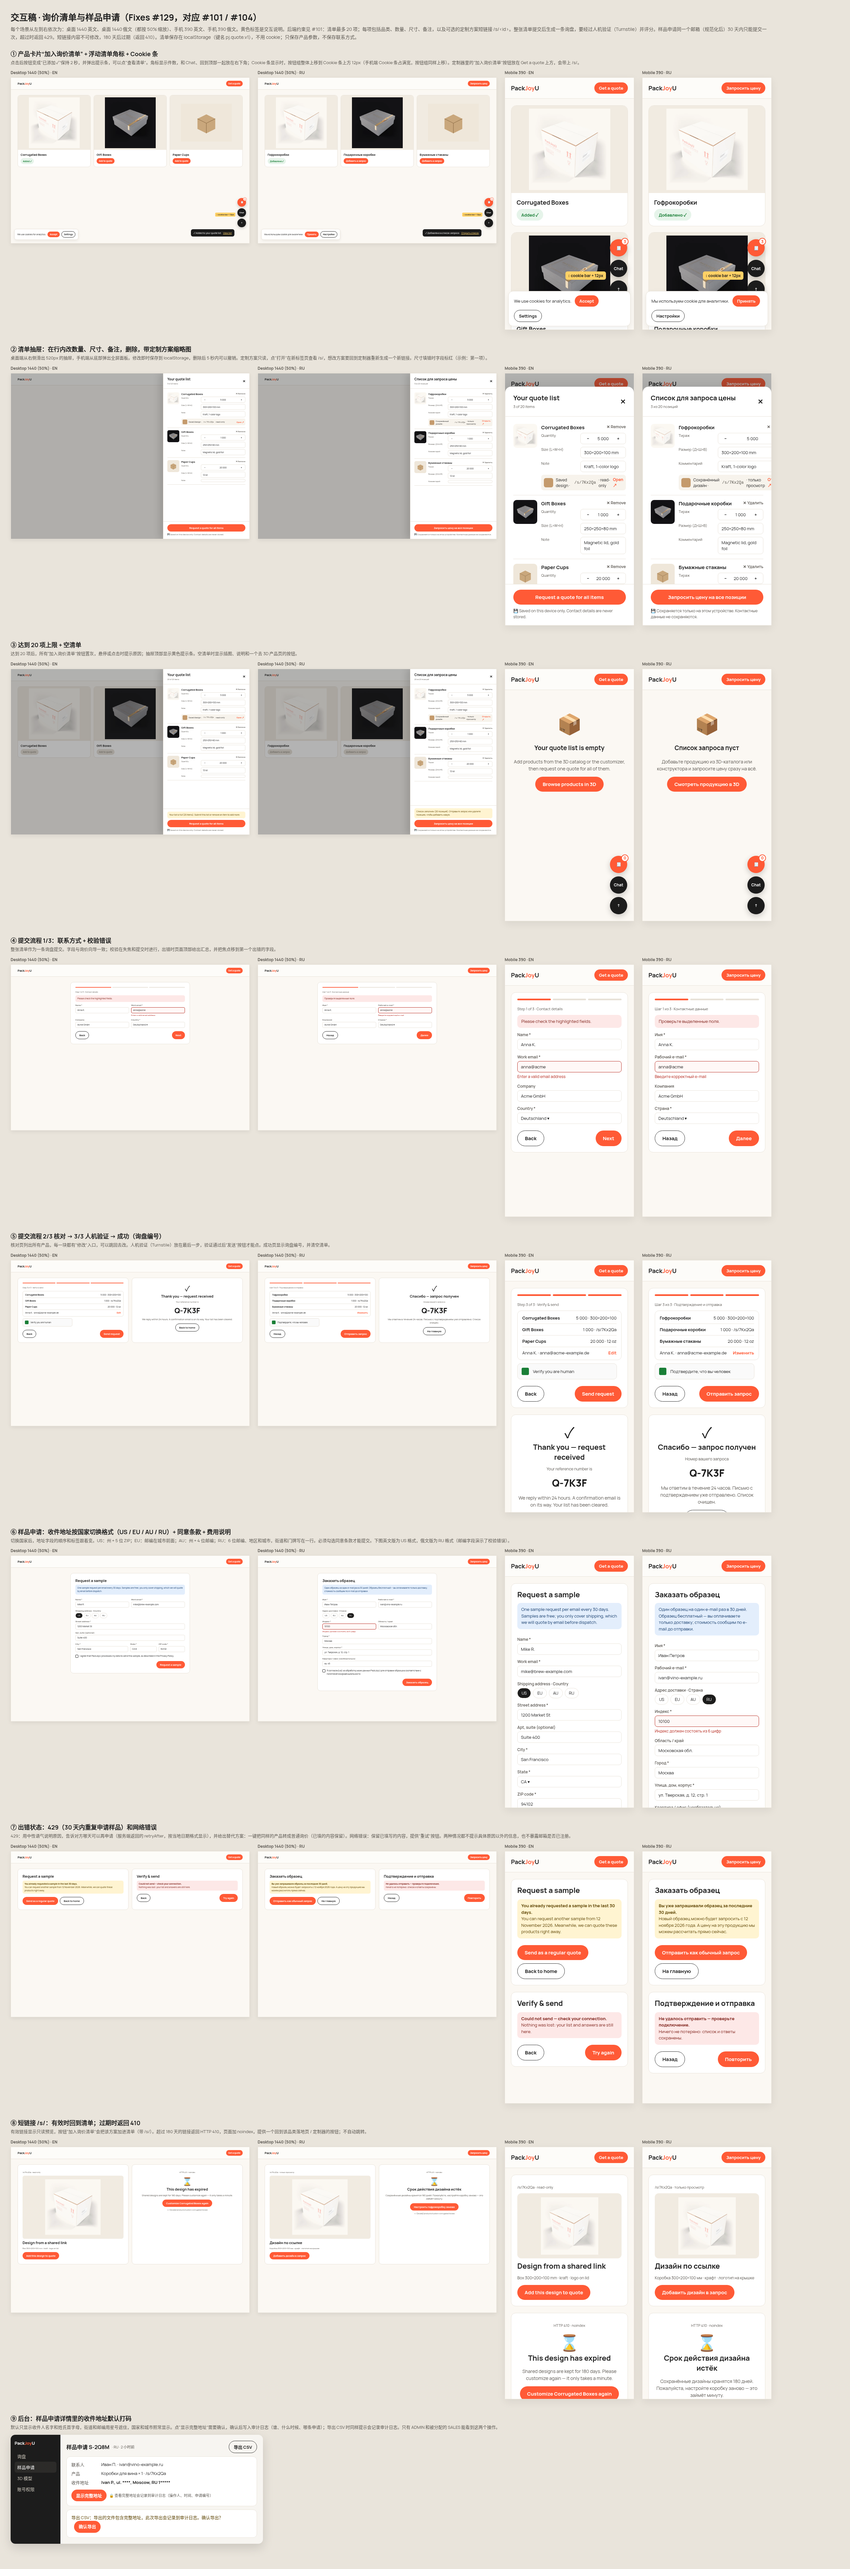
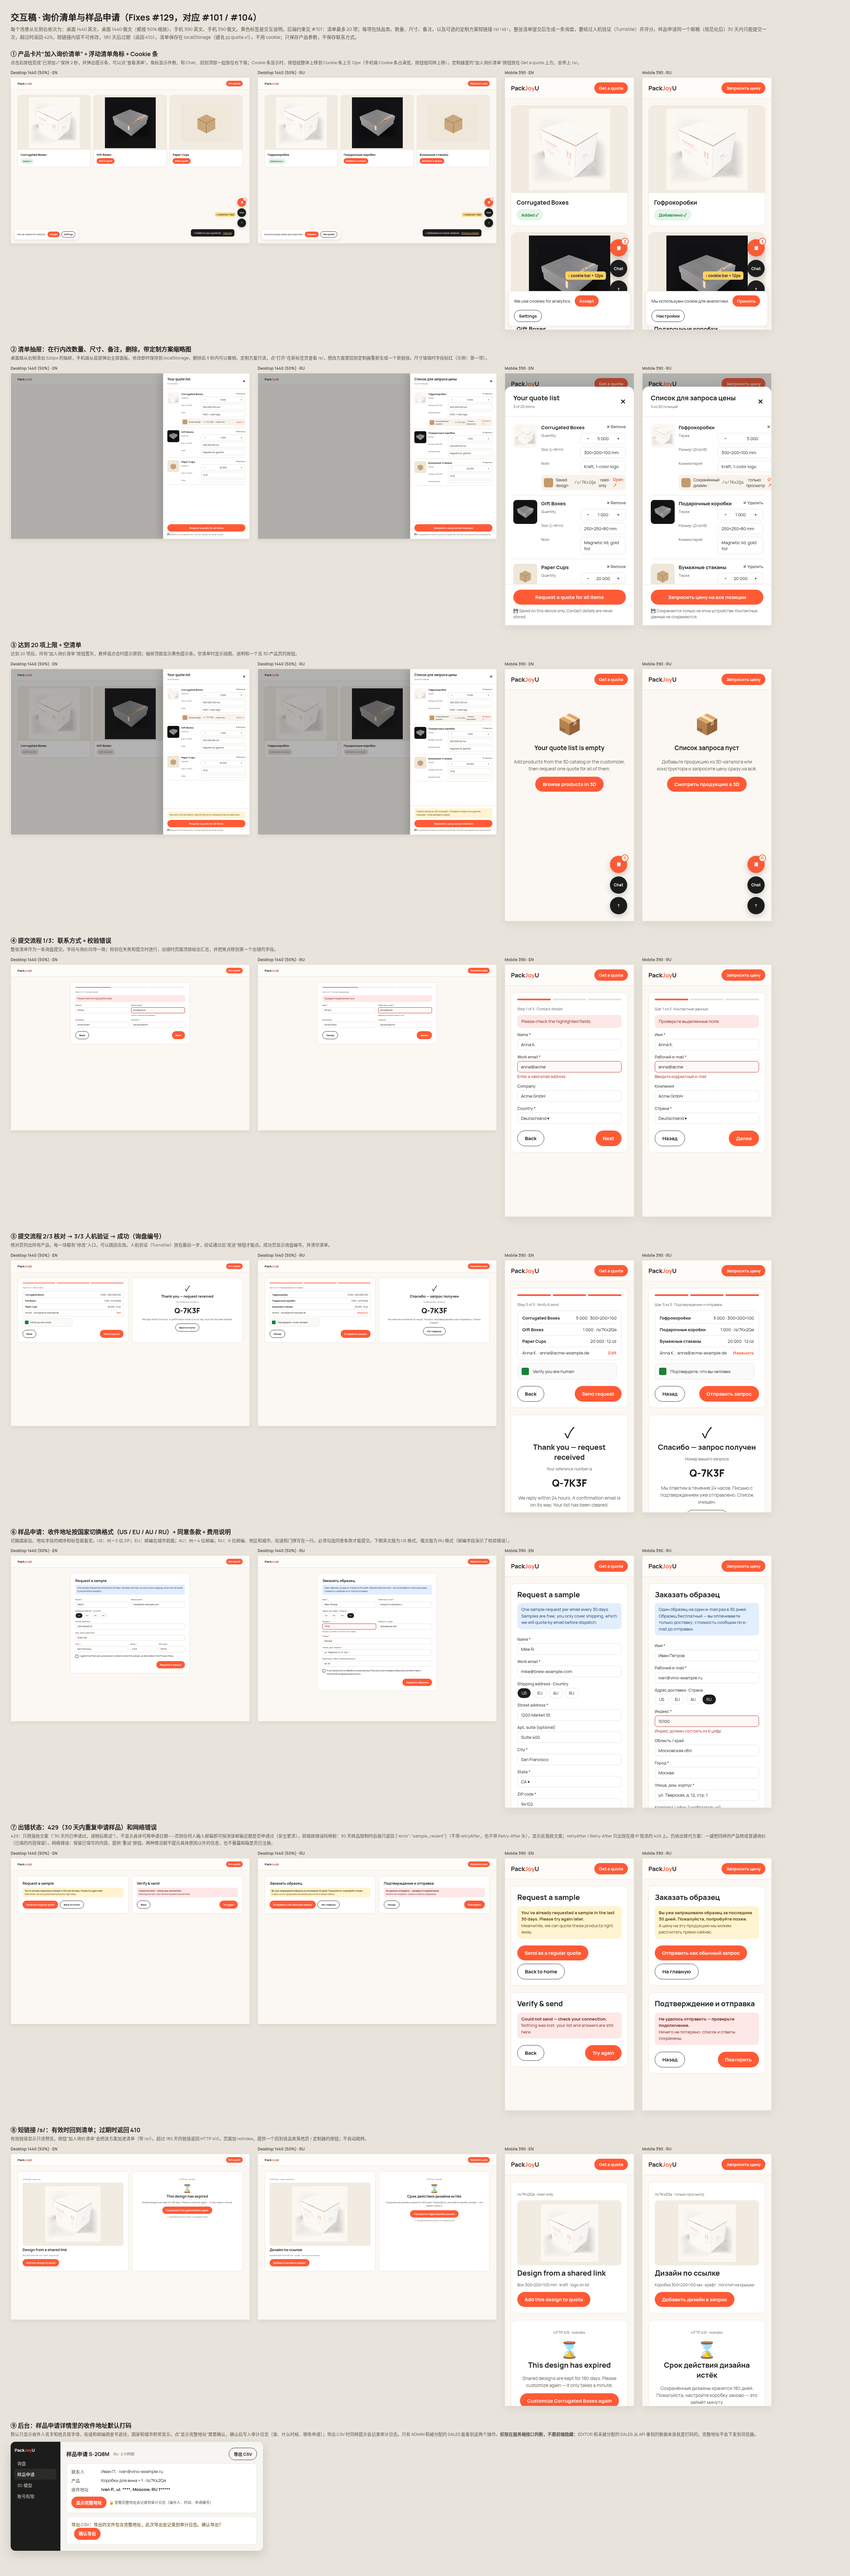
design(#131): generic sample_recent 429 copy; server-side address gating note

diff --git a/design/quote-sample.html b/design/quote-sample.html
@@ -62,7 +62,7 @@ succ:'Thank you — request received',succp:'Your reference number is',succ2:'We
 sample:'Request a sample',sampp:'One sample request per email every 30 days. Samples are free; you only cover shipping, which we will quote by email before dispatch.',
 ship:'Shipping address',a1:'Street address',a2:'Apt, suite (optional)',city:'City',state:'State',zip:'ZIP code',
 consent:'I agree that PackJoyU processes my data to send this sample, as described in the Privacy Policy.',
-e429:'You already requested a sample in the last 30 days.',e429b:'You can request another sample from 12 November 2026. Meanwhile, we can quote these products right away.',e429c:'Send as a regular quote',
+e429:'You\'ve already requested a sample in the last 30 days. Please try again later.',e429b:'Meanwhile, we can quote these products right away.',e429c:'Send as a regular quote',
 eval:'Please check the highlighted fields.',evalE:'Enter a valid email address',evalZ:'ZIP code should be 5 digits',
 enet:'Could not send — check your connection.',enetb:'Nothing was lost: your list and answers are still here.',retry:'Try again',
 fromS:'Design from a shared link',fromSp:'Box 300×200×100 mm · kraft · logo on lid',addS:'Add this design to quote',
@@ -78,7 +78,7 @@ succ:'Спасибо — запрос получен',succp:'Номер ваше
 sample:'Заказать образец',sampp:'Один образец на один e-mail раз в 30 дней. Образец бесплатный — вы оплачиваете только доставку; стоимость сообщим по e-mail до отправки.',
 ship:'Адрес доставки',a1:'Улица, дом, корпус',a2:'Квартира / офис (необязательно)',city:'Город',state:'Область / край',zip:'Индекс',
 consent:'Я согласен(на) на обработку моих данных PackJoyU для отправки образца в соответствии с политикой конфиденциальности.',
-e429:'Вы уже запрашивали образец за последние 30 дней.',e429b:'Новый образец можно будет запросить с 12 ноября 2026 года. А цену на эту продукцию мы можем рассчитать прямо сейчас.',e429c:'Отправить как обычный запрос',
+e429:'Вы уже запрашивали образец за последние 30 дней. Пожалуйста, попробуйте позже.',e429b:'А цену на эту продукцию мы можем рассчитать прямо сейчас.',e429c:'Отправить как обычный запрос',
 eval:'Проверьте выделенные поля.',evalE:'Введите корректный e-mail',evalZ:'Индекс должен состоять из 6 цифр',
 enet:'Не удалось отправить — проверьте подключение.',enetb:'Ничего не потеряно: список и ответы сохранены.',retry:'Повторить',
 fromS:'Дизайн по ссылке',fromSp:'Коробка 300×200×100 мм · крафт · логотип на крышке',addS:'Добавить дизайн в запрос',
@@ -109,7 +109,7 @@ const S=[
 ${l=='ru'?`<div class="g2"><div><span class="lb">${t.zip} *</span><div class="in bad">10100</div><div class="er">${t.evalZ}</div></div><div><span class="lb">${t.state}</span><div class="in">Московская обл.</div></div></div><span class="lb">${t.city} *</span><div class="in">Москва</div><span class="lb">${t.a1} *</span><div class="in">ул. Тверская, д. 12, стр. 1</div><span class="lb">${t.a2}</span><div class="in">кв. 45</div>`
 :`<span class="lb">${t.a1} *</span><div class="in">1200 Market St</div><span class="lb">${t.a2}</span><div class="in">Suite 400</div><div class="g2" style="grid-template-columns:${m?'1fr':'2fr 1fr 1fr'}"><div><span class="lb">${t.city} *</span><div class="in">San Francisco</div></div><div><span class="lb">${t.state} *</span><div class="in">CA ▾</div></div><div><span class="lb">${t.zip} *</span><div class="in">94102</div></div></div>`}
 <div class="chk"><i></i>${t.consent}</div><div class="nav"><span></span><span class="btn">${t.sample}</span></div></div></div>`],
-['⑦ 出错状态：429（30 天内重复申请样品）和网络错误', '429：用中性语气说明原因，告诉对方哪天可以再申请（服务端返回的 retryAfter，按当地日期格式显示），并给出替代方案：一键把同样的产品转成普通询价（已填的内容保留）。网络错误：保留已填写的内容，提供“重试”按钮。两种情况都不提示具体原因以外的信息，也不暴露邮箱是否已注册。',
+['⑦ 出错状态：429（30 天内重复申请样品）和网络错误', '429：只用笼统文案（“30 天内已申请过，请稍后再试”），不显示具体可再申请日期——否则任何人输入邮箱即可探测该邮箱近期是否申请过（安全要求）。前端按错误码映射：30 天样品限制时后端只返回 {"error":"sample_recent"}（不带 retryAfter，也不带 Retry-After 头），显示此笼统文案；retryAfter / Retry-After 只出现在按 IP 限流的 429 上。仍给出替代方案：一键把同样的产品转成普通询价（已填的内容保留）。网络错误：保留已填写的内容，提供“重试”按钮。两种情况都不提示具体原因以外的信息，也不暴露邮箱是否已注册。',
  (t,m)=>`${hd(t)}<div class="pad" style="display:grid;grid-template-columns:${m?'1fr':'1fr 1fr'};gap:20px"><div class="form" style="margin:0"><h3>${t.sample}</h3><div class="msg w" style="margin-top:12px"><b>${t.e429}</b><br>${t.e429b}</div><div class="nav" style="justify-content:flex-start;flex-wrap:wrap"><span class="btn">${t.e429c}</span><span class="btn ghost">${t.home}</span></div></div>
 <div class="form" style="margin:0"><h3>${t.s3}</h3><div class="msg e" style="margin-top:12px"><b>${t.enet}</b><br>${t.enetb}</div><div class="nav"><span class="btn ghost">${t.back}</span><span class="btn">${t.retry}</span></div></div></div>`],
 ['⑧ 短链接 /s/<id>：有效时回到清单；过期时返回 410', '有效链接显示只读预览，按钮“加入询价清单”会把该方案加进清单（带 /s/<id>）。超过 180 天的链接返回 HTTP 410，页面加 noindex，提供一个回到该品类落地页 / 定制器的按钮；不自动跳转。',
@@ -119,7 +119,7 @@ const out=document.getElementById('out');
 for(const [title,note,fn] of S){let h=`<div class="sc"><h2>${title}</h2><p class="n">${note}</p><div class="row">`;
  for(const [l,m] of [['en',0],['ru',0],['en',1],['ru',1]]) h+=`<div><p class="lbl">${m?'Mobile 390':'Desktop 1440 (50%)'} · ${l.toUpperCase()}</p>${m?'':'<div class="dw">'}<div class="f ${m?'m':'d'}" style="height:${m?'760px':'1000px'}">${fn(L[l],m,l)}</div>${m?'':'</div>'}</div>`;
  out.insertAdjacentHTML('beforeend',h+'</div></div>');}
-out.insertAdjacentHTML('beforeend',`<div class="sc"><h2>⑨ 后台：样品申请详情里的收件地址默认打码</h2><p class="n">默认只显示收件人名字和姓氏首字母，街道和邮编用星号遮住，国家和城市照常显示。点“显示完整地址”需要确认，确认后写入审计日志（谁、什么时候、哪条申请）；导出 CSV 时同样提示会记录审计日志。只有 ADMIN 和被分配的 SALES 能看到这两个操作。</p>
+out.insertAdjacentHTML('beforeend',`<div class="sc"><h2>⑨ 后台：样品申请详情里的收件地址默认打码</h2><p class="n">默认只显示收件人名字和姓氏首字母，街道和邮编用星号遮住，国家和城市照常显示。点“显示完整地址”需要确认，确认后写入审计日志（谁、什么时候、哪条申请）；导出 CSV 时同样提示会记录审计日志。只有 ADMIN 和被分配的 SALES 能看到这两个操作。<b>权限在服务端接口判断，不靠前端隐藏：</b>EDITOR 和未被分配的 SALES 从 API 拿到的数据本身就是打码的，完整地址不会下发到浏览器。</p>
 <div class="adm"><div class="side"><b>Pack<em>Joy</em>U</b><div style="margin-top:14px">询盘</div><div class="on">样品申请</div><div>3D 模型</div><div>账号权限</div></div><div class="main"><div style="display:flex;align-items:center;gap:8px"><b style="font-size:16px">样品申请 S-2Q8M</b><span class="tip">· RU · 2 小时前</span><span style="flex:1"></span><span class="btn sm ghost">导出 CSV</span></div>
 <div class="cardx"><div class="kv"><span>联系人</span><span>Иван П. · ivan@vino-example.ru</span><span>产品</span><span>Коробки для вина × 1 · /s/7Kx2Qa</span><span>收件地址</span><span><b>Ivan P., ul. ****, Moscow, RU 1*****</b></span></div>
 <div style="display:flex;gap:8px;margin-top:12px;align-items:center"><span class="btn sm">显示完整地址</span><span class="tip">🔒 查看完整地址会记录到审计日志（操作人、时间、申请编号）</span></div></div>
